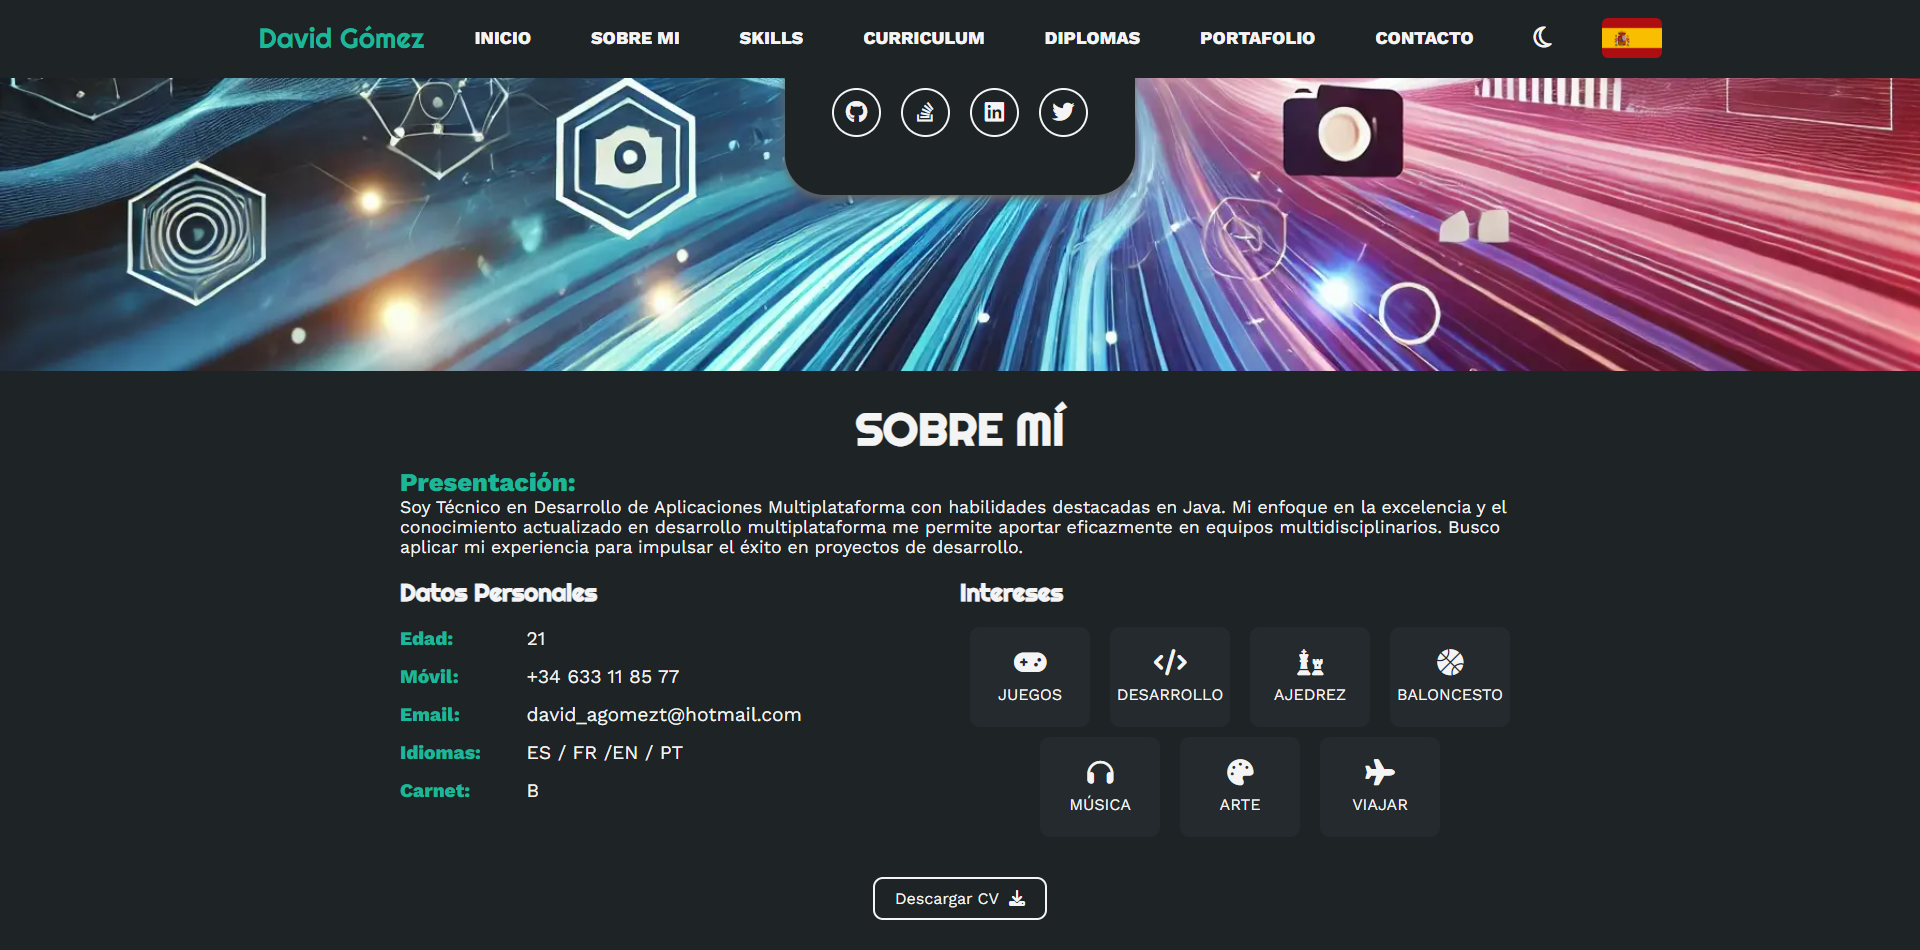
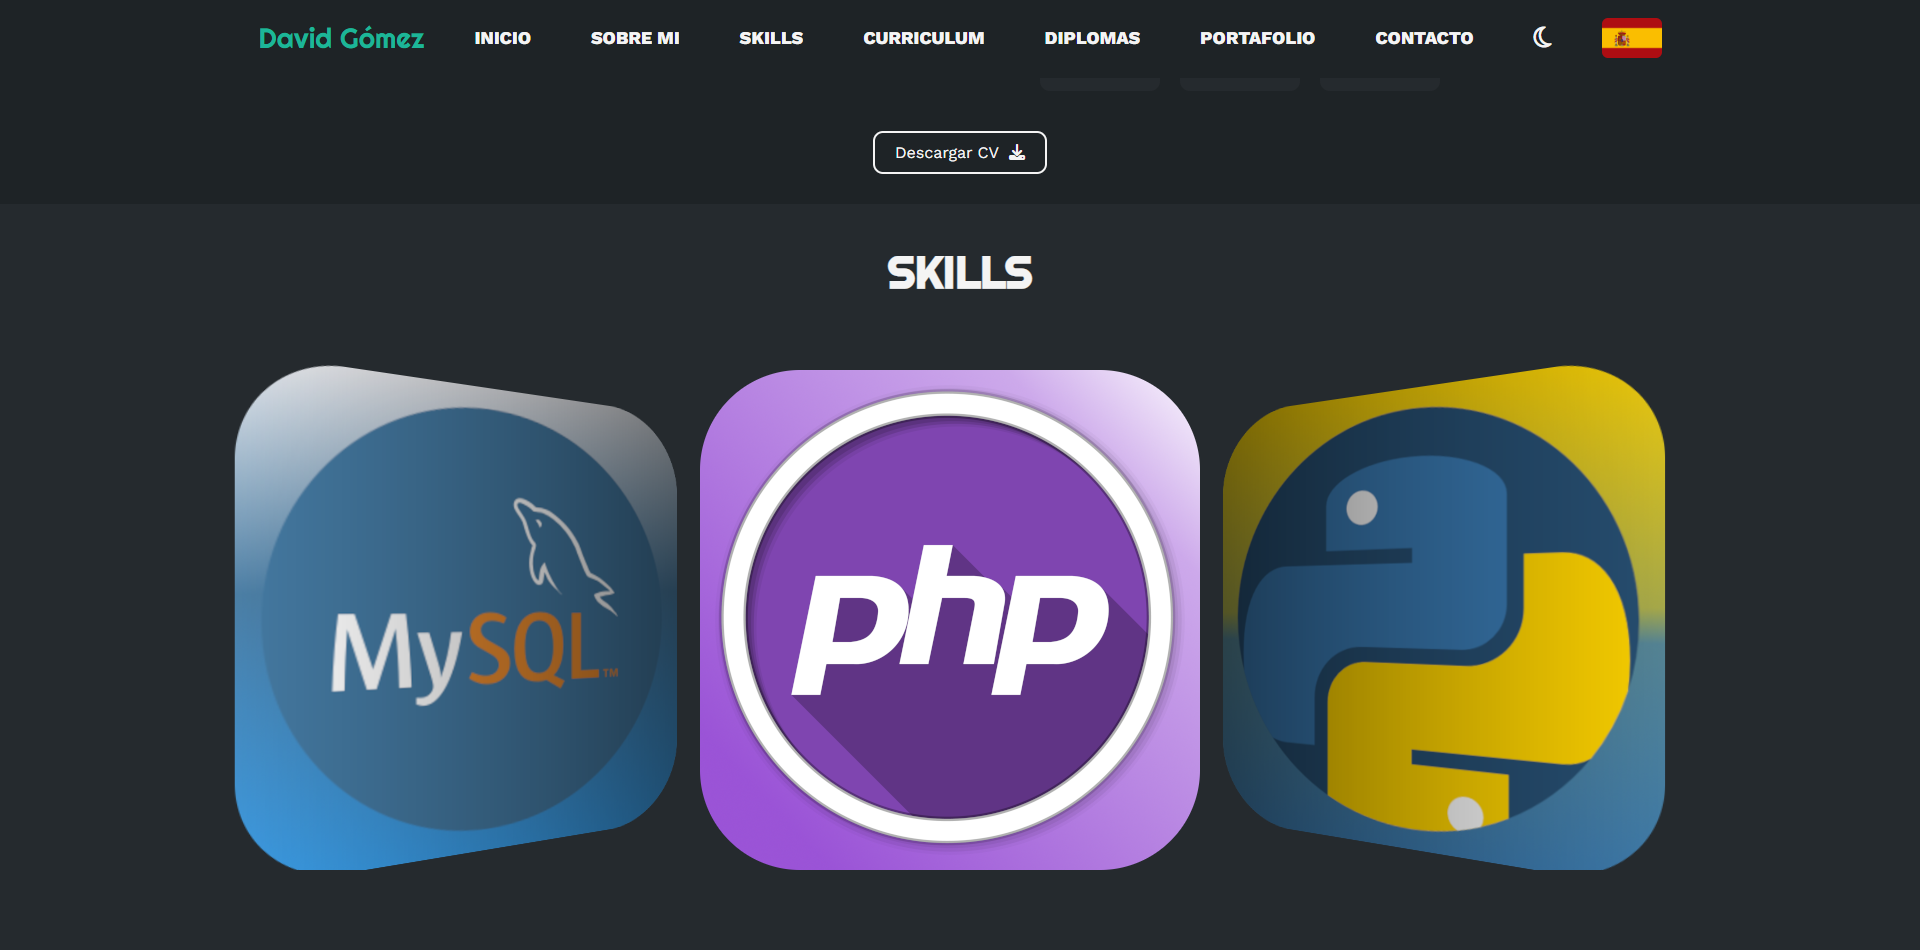
PORTFOLIO 0.6.0
Add Section Skills
Add Skills.png
Add skillsData.json
Add SkillsSection.js
Update App.js
Update index.css
Update Background
Update README.md
Update SocialMedia.js
Update AboutMeSection.js
Update translationsData.json
Update personalInformationData.json

diff --git a/src/components/SkillsSection.js b/src/components/SkillsSection.js
@@ -1,0 +1,50 @@
+import React, { useContext } from 'react'
+import { Swiper, SwiperSlide } from 'swiper/react'
+import { Autoplay, EffectCoverflow } from 'swiper/modules'
+import { ThemeContext } from '../contexts/ThemeContext'
+import { TranslationsContext } from '../contexts/TranslationsContext'
+
+import "swiper/css"
+import "swiper/css/effect-coverflow"
+import "swiper/css/pagination"
+import "swiper/css/navigation"
+
+import SkillsData from "../data/skillsData.json"
+
+export default function SkillsSection() {
+    const { theme } = useContext(ThemeContext)
+    const { translations } = useContext(TranslationsContext)
+
+    const sections = translations.sections
+    const skillsTexts = translations.skills
+    const skills = SkillsData
+
+    return (
+        <section id={sections[2]} className={`section__skills color--${theme}--1 background--${theme}--2`}>
+            <h1 className="section__title">{skillsTexts[0]}</h1>
+            <div className="carousel__container">
+                <Swiper
+                    effect={"coverflow"}
+                    autoplay={{ delay: 1000, disableOnInteraction: false }}
+                    grabCursor={true}
+                    centeredSlides={true}
+                    loop={true}
+                    slidesPerView={"3"}
+                    modules={[Autoplay, EffectCoverflow]}
+                    className="swiper__container">
+                    {skills.map((skill) => (
+                        <SwiperSlide key={skill[0]} className="swiper__slide" >
+                            <SkillSlide skill={skill} />
+                        </SwiperSlide>
+                    ))}
+                </Swiper>
+            </div >
+        </section>
+    )
+
+    function SkillSlide({ skill }) {
+        return (
+            <img src={`/img/portfolio/skills/${skill[1]}.png`} alt={skill[0]} />
+        )
+    }
+}

diff --git a/src/index.css b/src/index.css
@@ -2,8 +2,9 @@
 
 :root {
   /* TODO: Delete test colors */
-  --test__background--1: rgba(220, 80, 80, 0.8);
-  --test__background--2: rgba(80, 162, 220, 0.8);
+  --test__background--1: rgba(80, 162, 220, 0.8);
+  --test__background--2: rgba(220, 80, 80, 0.8);
+  --test__background--3: rgb(255, 247, 0);
   --transparent: rgba(0, 0, 0, 0);
   --shadow: rgb(100, 100, 100);
   --background__image: url(../public/img/portfolio/background.png);
@@ -216,6 +217,7 @@ body::-webkit-scrollbar {
   border: solid 2px;
   border-radius: 100%;
   margin: 0 10px;
+  transition: 0.3s;
 }
 
 .social__media__icon i {
@@ -231,7 +233,7 @@ body::-webkit-scrollbar {
   padding: 30px 400px;
 }
 
-.section__about__me h1 {
+.section__title {
   text-align: center;
   font-size: 2.8rem;
   font-family: "Righteous";
@@ -271,7 +273,7 @@ body::-webkit-scrollbar {
 
 strong {
   display: inline-block;
-  width: 120px;
+  width: 130px;
 }
 
 .interests .interests__container {
@@ -324,6 +326,28 @@ strong {
   background-size: 100% 100%;
 }
 
-.download__cv a i{
+.download__cv a i {
   margin-left: 10px;
+}
+
+.section__skills {
+  padding: 40px 200px;
+}
+
+.carousel__container {
+  margin: 40px 0;
+  width: 1500px;
+}
+
+.carousel__container .swiper__container {
+  padding-top: 30px;
+}
+
+.swiper__slide {
+  border-radius: 100px;
+  overflow: hidden;
+}
+
+.swiper-wrapper .swiper-slide {
+  height: 500px;
 }

diff --git a/src/components/AboutMeSection.js b/src/components/AboutMeSection.js
@@ -16,7 +16,7 @@ export default function AboutMeSection() {
 
     return (
         <section id={sections[1]} className={`section__about__me color--${theme}--1 background--${theme}--1`}>
-            <h1>{aboutMeTexts[0]}</h1>
+            <h1 className="section__title">{aboutMeTexts[0]}</h1>
             <Presentation />
             <div className="more__about__me">
                 <PersonalInformation />
@@ -49,7 +49,7 @@ export default function AboutMeSection() {
     function PersonalInformationItem({ information, index }) {
         return (
             <li className={`personal__information__item `}>
-                <strong className={`color--${theme}--2`}>{information}:</strong> {personalInformation[index]}
+                <strong className={`color--${theme}--2`}>{information}:</strong>{personalInformation[index]}
             </li>
         )
     }
@@ -79,7 +79,7 @@ export default function AboutMeSection() {
             <div className="download__cv">
                 <a className={`color--${theme}--1 background__gradient--${theme}`} download="CV David Gómez" href="/pdfs/CV David Gomez.pdf">
                     {aboutMeTexts[7]}
-                    <i class="fa-solid fa-download" />
+                    <i className="fa-solid fa-download" />
                 </a>
             </div>
         )

diff --git a/src/components/SocialMedia.js b/src/components/SocialMedia.js
@@ -16,7 +16,7 @@ export default function SocialMedia() {
 
     function SocialMediaIcon({ url, icon }) {
         return (
-            <a className={`social__media__icon color--${theme}--1`} href={url} target="_blank" rel="noreferrer">
+            <a className={`social__media__icon color--${theme}--1 background--${theme}--2--hover`} href={url} target="_blank" rel="noreferrer">
                 <i className={icon} />
             </a>
         )

diff --git a/src/components/App.js b/src/components/App.js
@@ -1,6 +1,7 @@
 import Header from "./Header"
 import HomeSection from "./HomeSection"
 import AboutMeSection from "./AboutMeSection"
+import SkillsSection from "./SkillsSection"
 
 export default function App() {
   return (
@@ -8,6 +9,7 @@ export default function App() {
       <Header />
       <HomeSection />
       <AboutMeSection />
+      <SkillsSection />
     </div>
   )
 }

diff --git a/README.md b/README.md
@@ -10,7 +10,8 @@
 
 - **STACK :**
 
-  - **Portfolio** : `0.5.0`
+  - **Portfolio** : `0.6.0`
+  - **Swiper** : `11.1.14`
   - **React** : `18.3.1`
   - **React Dom** : `18.3.1`
 
